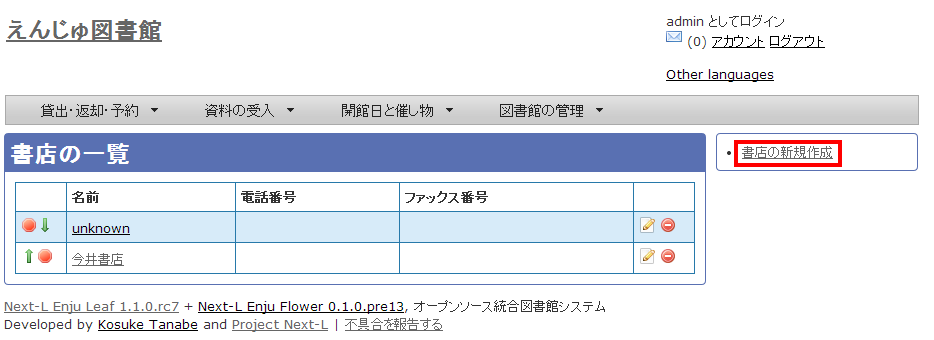
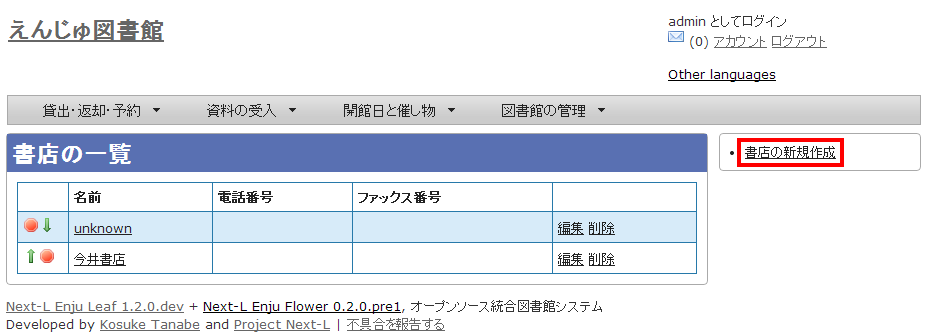
初期設定マニュアルの書店の一覧のスクリーンショットを差し替え

Changed region(s): [[0.0, 0.209, 0.9946, 1.0], [0.7149, 0.0299, 0.9014, 0.1493], [0.0, 0.0597, 0.1865, 0.1194]]

diff --git a/_includes/enju_setup/bookstore.md b/_includes/enju_setup/bookstore.md
@@ -21,7 +21,7 @@
    ![書店の新規作成](assets/images/image_initial_038.png)
 
    <div class="alert alert-info" markdown="1">
-   【Memo】入力済みの設定内容を変更する場合は，表の最終列に表示されている［![編集](assets/images/image_initial_039.jpg)］を，削除する場合は［![削除](assets/images/image_initial_040.jpg) ］をクリックします。
+   【Memo】入力済みの設定内容を変更する場合は，表の最終列に表示されている[編集]を，削除する場合は[削除]をクリックします。
 一覧表示の表示順序を変更するには，表の1列目に表示されている↑または↓をクリックして行を入れ替えます。
    </div>
 4. 設定項目に必要事項を入力し、
